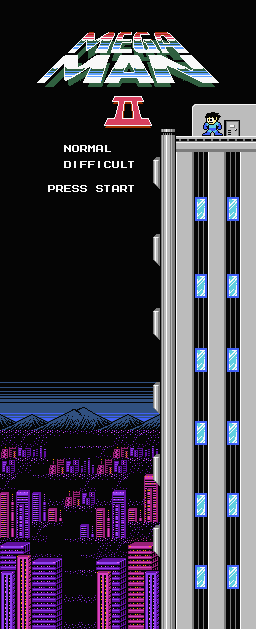
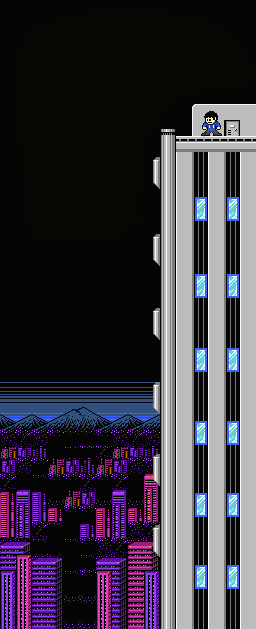
Added real title

Changed region(s): [[0.1562, 0.0302, 0.8438, 0.3021], [0.7812, 0.1812, 0.875, 0.2417], [0.375, 0.2719, 0.4062, 0.3021]]

diff --git a/src/Title.cpp b/src/Title.cpp
@@ -13,6 +13,13 @@ Title::Title(sf::RenderWindow& window) : _window(window)
     std::cout << "Error loading image title.png" << std::endl;
   }
 
+  if (!_bgTitleImg.LoadFromFile("../resources/backgrounds/titleName.png")) {
+    std::cout << "Error loading image titleName.png" << std::endl;
+  }
+  _bgTitleSprite.SetImage(_bgTitleImg);
+  _bgTitleSprite.Resize(_bgTitleImg.GetWidth() * ZOOM_LEVEL, _bgTitleImg.GetHeight() * ZOOM_LEVEL);
+  _bgTitleSprite.SetPosition(120, 40);
+
   if (!_bgMusic.OpenFromFile("../resources/music/Title_Part_1.ogg")) {
     std::cout << "Error loading music Title 1" << std::endl; 
   }
@@ -51,11 +58,14 @@ void Title::update()
       //TODO play music
       _state = SCROLLING;
       _bgMusic.Play();
+      _window.Draw(_bgSprite);
       break;
     case SCROLLING:
       scroll();
       if (scrollingDone())
         _state = WAIT_TITLE;
+
+      _window.Draw(_bgSprite);
       break;
     case WAIT_TITLE:
       _state = END;
@@ -64,12 +74,14 @@ void Title::update()
         std::cout << "Error loading music Title 2" << std::endl; 
       }
       _bgMusic.Play();
+      _window.Draw(_bgSprite);
       break;
     case END:
+      _window.Draw(_bgSprite);
+      _window.Draw(_bgTitleSprite);
       break;
   }
 
-  _window.Draw(_bgSprite);
 }
 
 void Title::processEvent()

diff --git a/src/Title.h b/src/Title.h
@@ -32,6 +32,8 @@ class Title
 
   //Display
   sf::RenderWindow& _window;
+  sf::Image _bgTitleImg;
+  sf::Sprite _bgTitleSprite;
   sf::Image _bgImage;
   sf::Sprite _bgSprite;
   int _bgRectTop;

diff --git a/src/Main.cpp b/src/Main.cpp
@@ -106,6 +106,7 @@ int main(int argc, char** argv) {
 
     if (title.showTitle())
     {
+      App.Clear();
       title.update();
       App.Display();
       continue;
